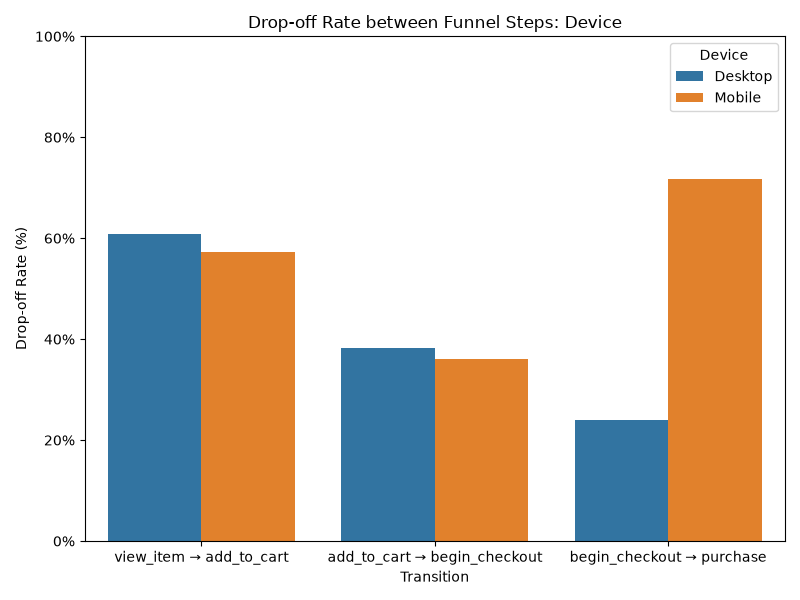
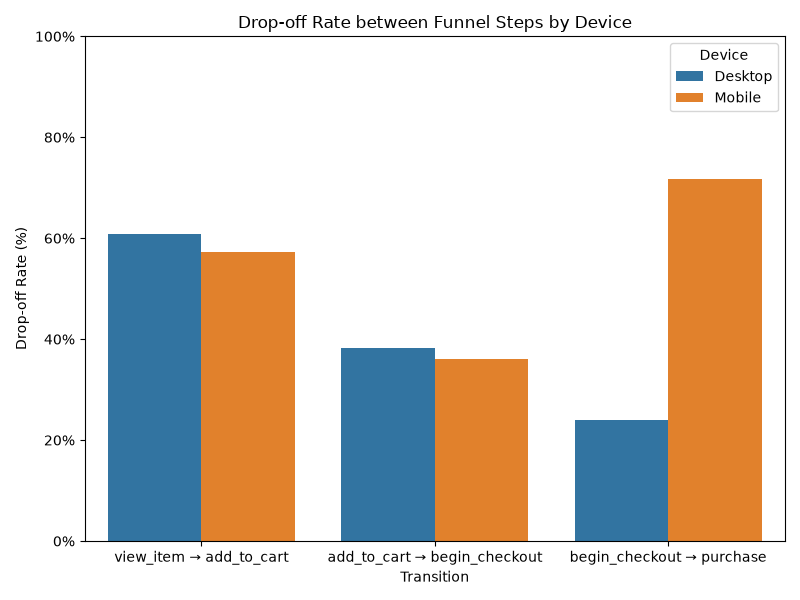
refactor: add value labels to overall funnel chart

Changed region(s): [[0.2812, 0.0, 0.7812, 0.06]]

diff --git a/funnel_analysis/main.py b/funnel_analysis/main.py
@@ -185,6 +185,13 @@ def visualize_overall(df: pd.DataFrame) -> plt.Figure:
         errorbar=None,
         ax=axes[0],
     )
+    axes[0].bar_label(
+        axes[0].containers[0],
+        fmt="{:,.0f}",
+        padding=3,
+        fontsize=10,
+    )
+    axes[0].margins(x=0.15)
     axes[0].set_title("Funnel Chart")
     axes[0].set_xlabel("Funnel Count")
     axes[0].set_ylabel("Event Type")
